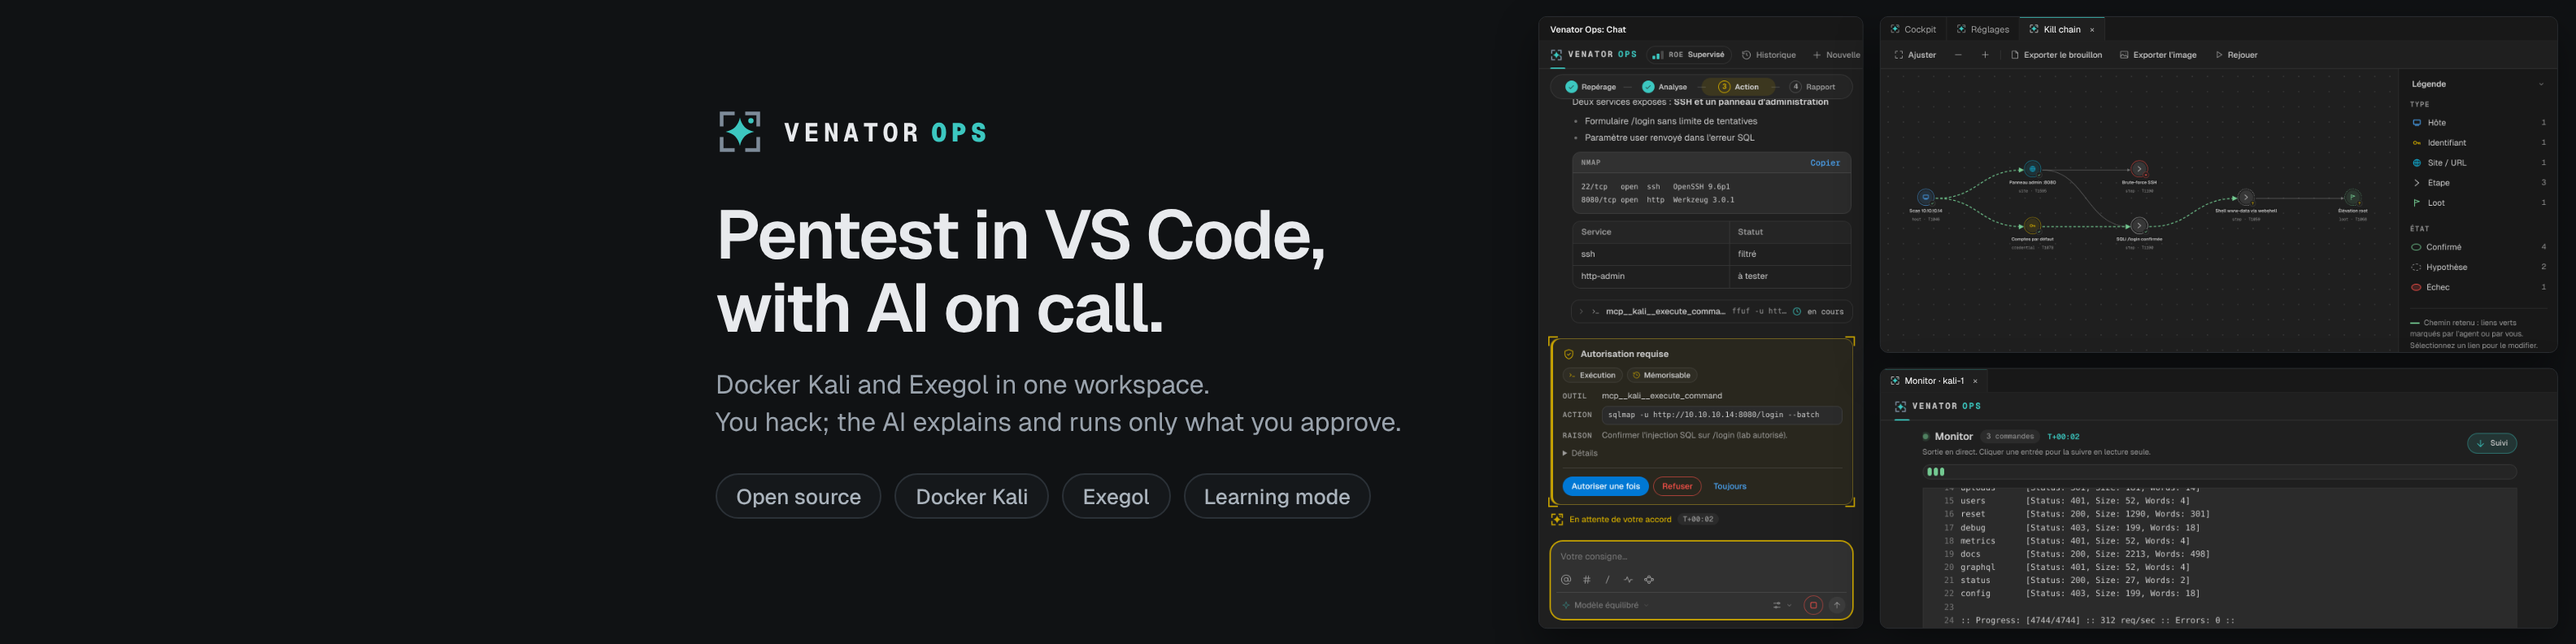
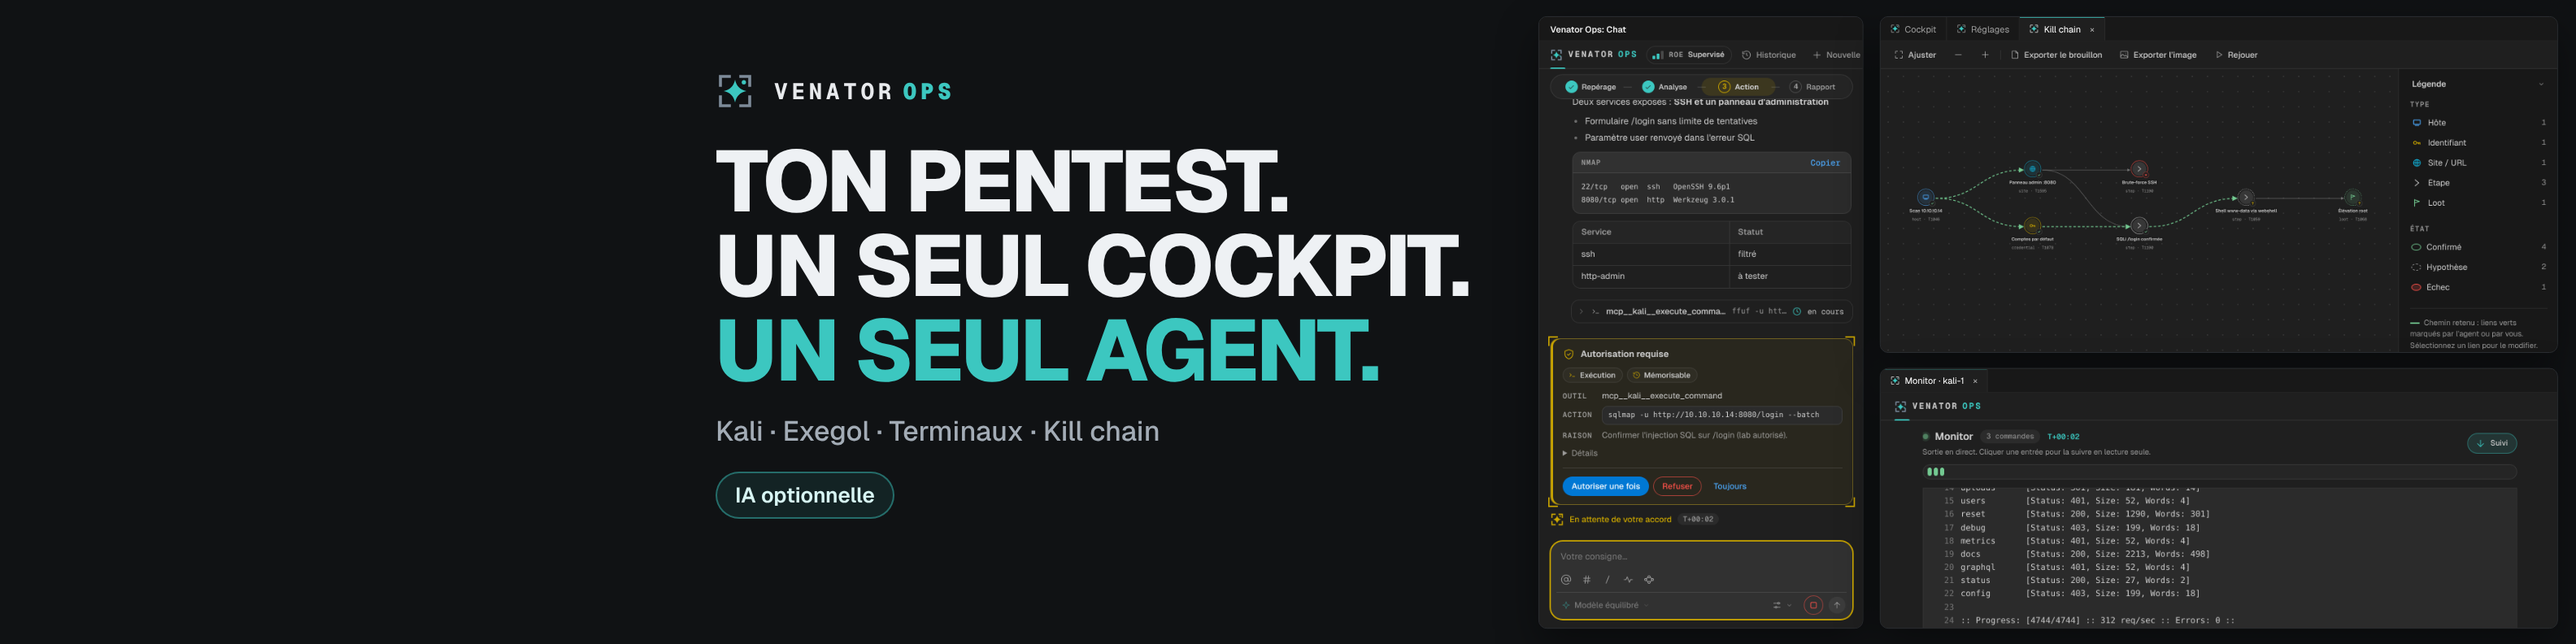
Marque Venator Ops : accroche sur LinkedIn et série de bannières GitHub
- Bannière LinkedIn : accroche « TON PENTEST. / UN SEUL COCKPIT. / UN SEUL
  AGENT. » (dernière ligne en signature), « Kali · Exegol · Terminaux · Kill
  chain », badge « IA optionnelle », trois fenêtres à droite.
- Bannières GitHub 1280 × 640 : accroche anglaise (« YOUR PENTEST. / ONE
  COCKPIT. / ONE AGENT. »), accroche française, variante mode Apprentissage
  (terminal kali-1 et chat) ; bandeau de titre 1280 × 320 sans capture pour
  le haut du README.
- DESIGN.md : série documentée.

Mêmes captures de lab fictif ; fixtures inchangées. npm run check : 8 tests
passés.

Claude-Session: https://claude.ai/code/session_01F7H1XGZHyAFoG5LN1doGUs

Changed region(s): [[0.2812, 0.1212, 0.5938, 0.697], [0.2812, 0.7576, 0.5312, 0.7879]]

diff --git a/DESIGN.md b/DESIGN.md
@@ -66,7 +66,16 @@ Le logo reste celui de l’interface (`media/logo.svg`) ; le mot-symbole
 « VENATOR OPS » est resserré (espace réduit avant « OPS »). Bannières dans
 `media/brand/` : `banner-github.png` (1280 × 640, aperçu social du dépôt),
 `banner-github@2x.png` (README) et `banner-linkedin.png` (1584 × 396 en 2x,
-texte décalé hors de la photo de profil). Registre sobre : fond plat, aucune
+texte décalé hors de la photo de profil, accroche du carrousel « TON PENTEST. /
+UN SEUL COCKPIT. / UN SEUL AGENT. » et badge « IA optionnelle »). Variantes
+GitHub (1280 × 640, à choisir comme aperçu social ou à placer dans le README) :
+`banner-github-hook-en.png` (« YOUR PENTEST. / ONE COCKPIT. / ONE AGENT. »,
+« AI optional »), `banner-github-hook-fr.png` (accroche française),
+`banner-github-learning.png` (mode Apprentissage : « STUCK ON A BOX? / FEED IT
+YOUR COURSE. / IT READS YOUR TERMINAL. », « Never executes », terminal et chat)
+et `banner-github-strip.png` (bandeau de titre 1280 × 320 en 2x, sans capture,
+pour le haut du README). Dans les accroches, la dernière ligne est en
+signature et la taille s’ajuste à la colonne. Bannière principale : registre sobre : fond plat, aucune
 lueur ni dégradé ; titre « Pentest in VS Code, with AI on call. » (il dit
 l’essentiel en une phrase : pentest, VS Code, IA en appui), texte « Docker
 Kali and Exegol… You hack; the AI explains, suggests, and runs only what you
